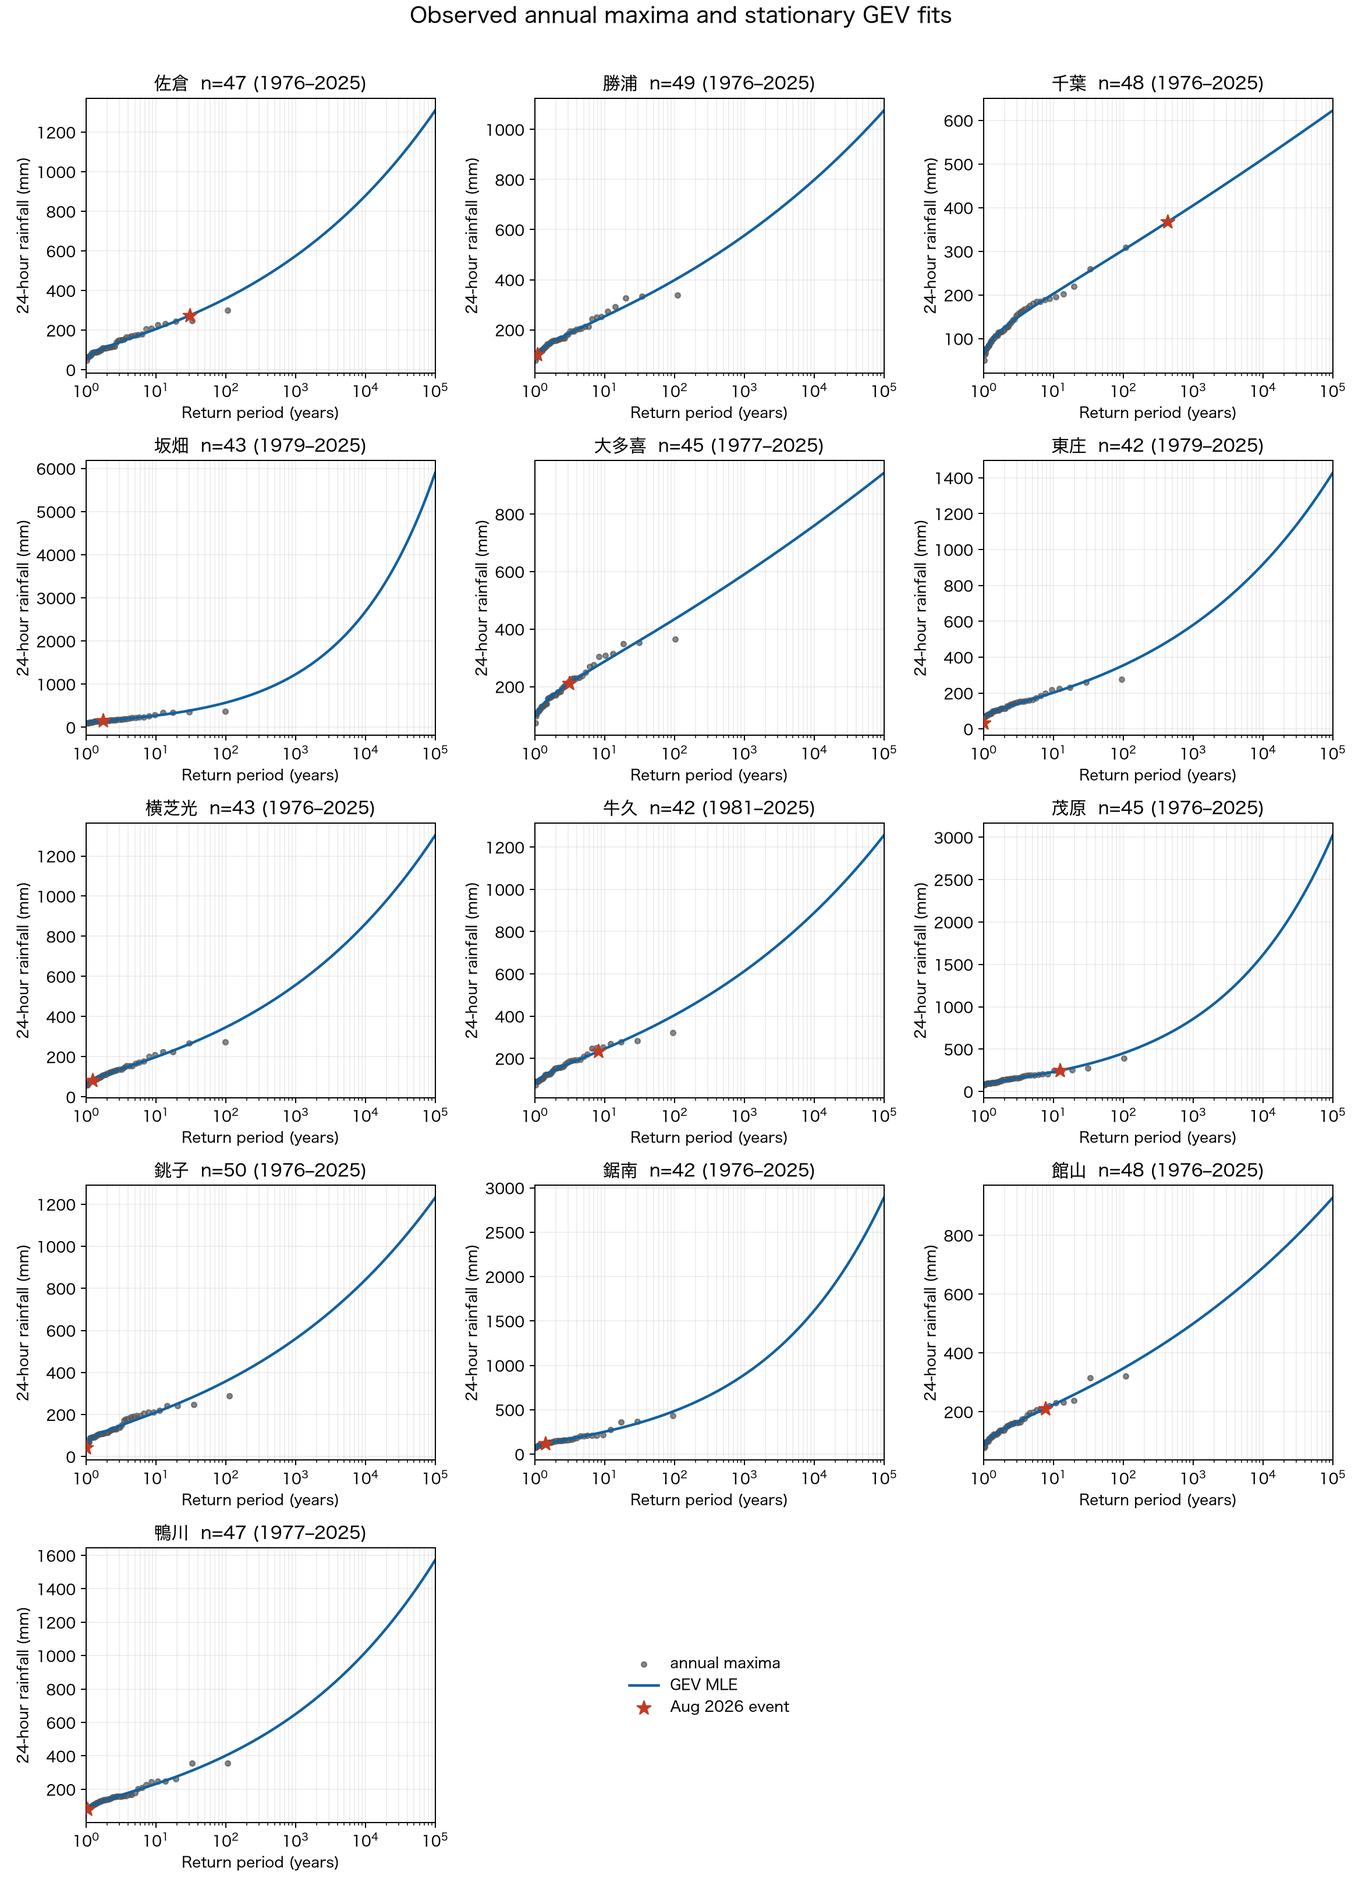
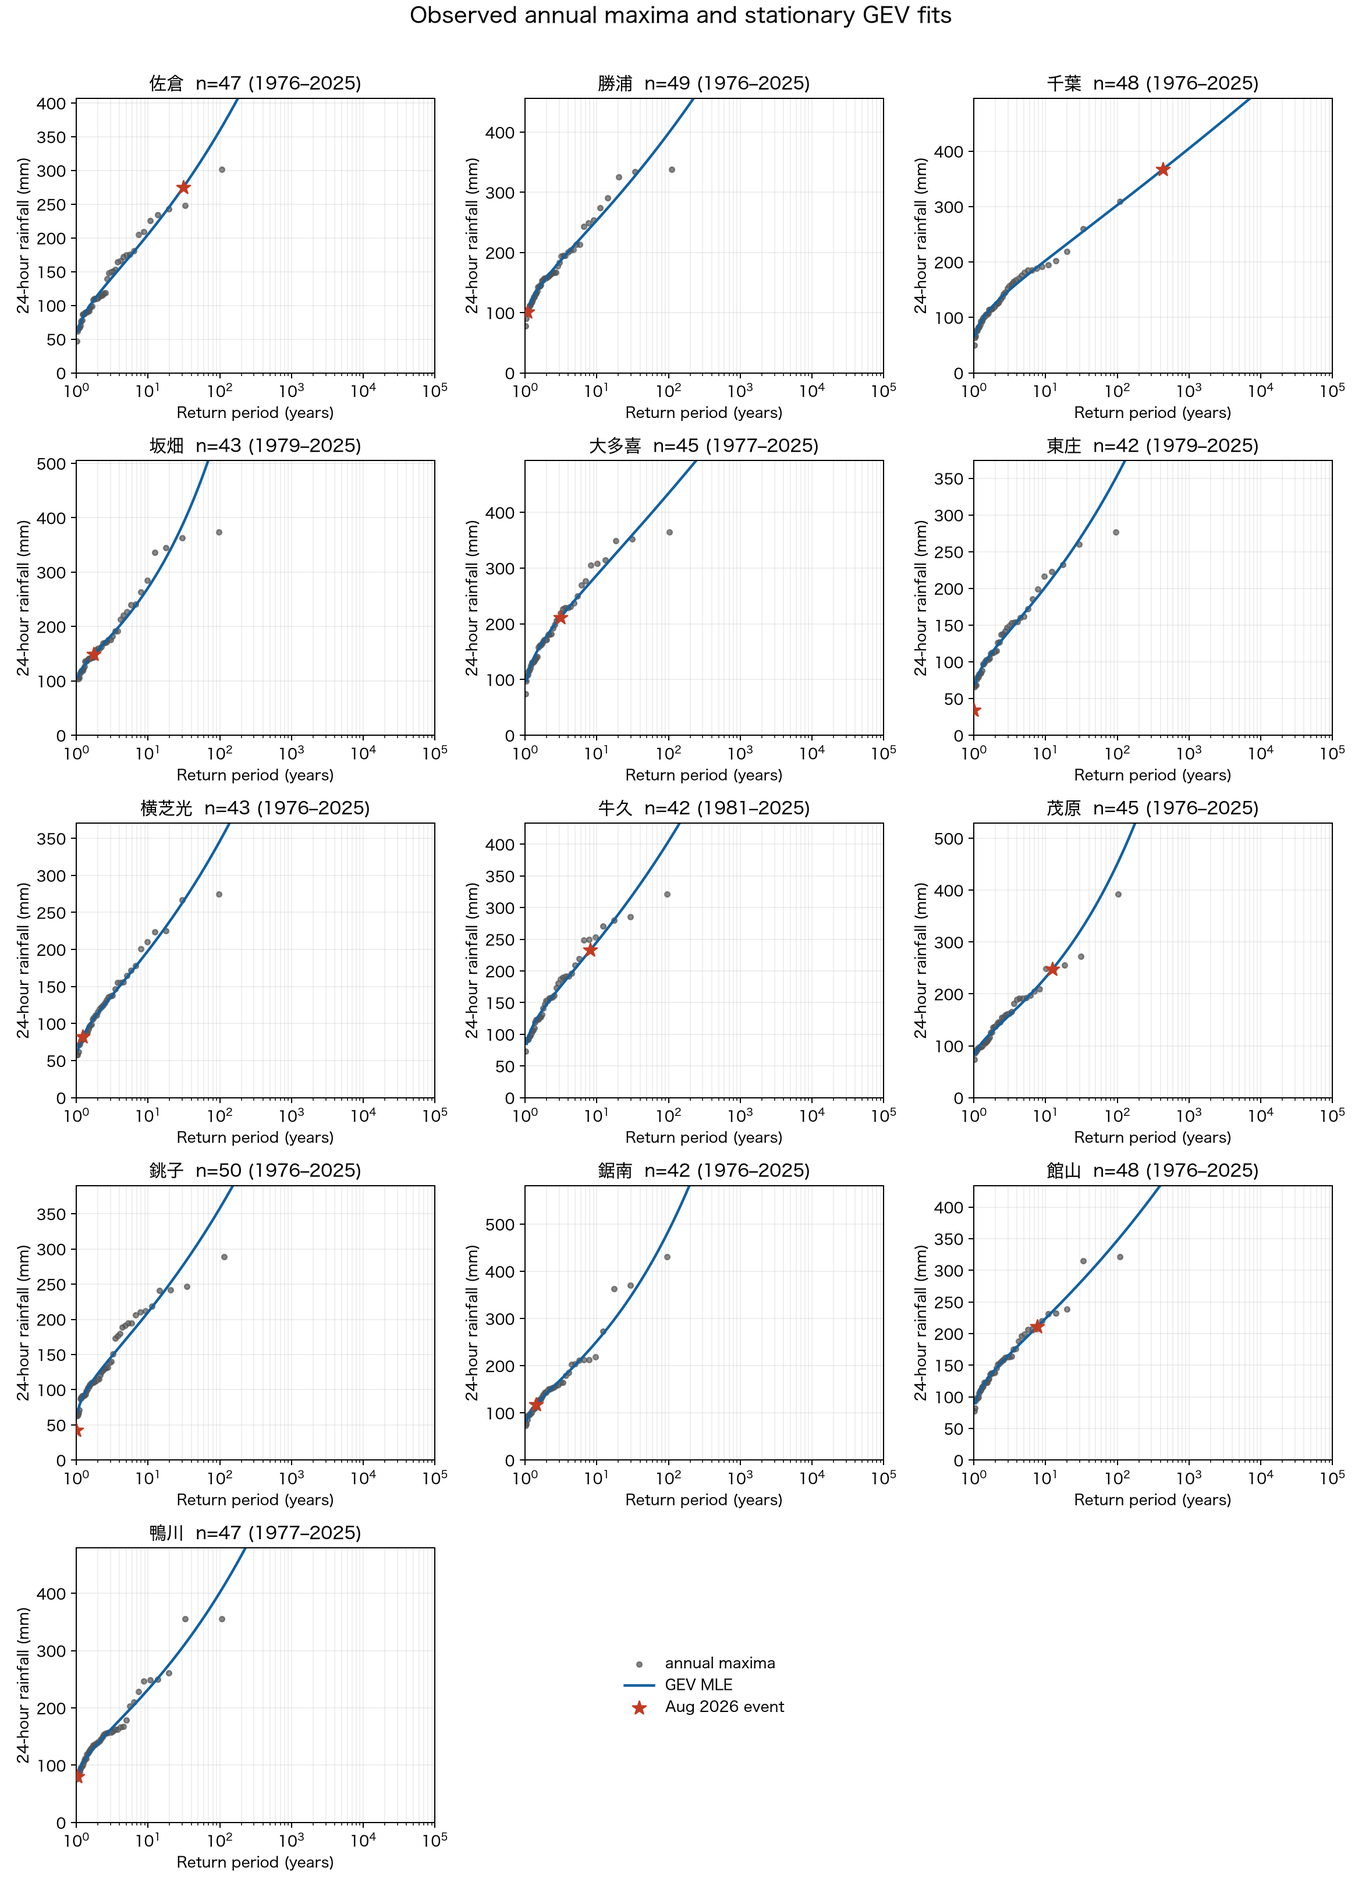
Compare inferred historical climate window

diff --git a/src/chiba_heavy_rain/analysis.py b/src/chiba_heavy_rain/analysis.py
@@ -81,7 +81,12 @@ def _plot_summary(results: pd.DataFrame, output: Path) -> None:
     plt.close(fig)
 
 
-def _plot_return_levels(series: dict[str, pd.DataFrame], results: pd.DataFrame, output: Path) -> None:
+def _plot_return_levels(
+    series: dict[str, pd.DataFrame],
+    results: pd.DataFrame,
+    output: Path,
+    title: str = "Observed annual maxima and stationary GEV fits",
+) -> None:
     eligible = results.loc[results["eligible"]].sort_values("station")
     ncols = 3
     nrows = math.ceil(len(eligible) / ncols)
@@ -107,7 +112,15 @@ def _plot_return_levels(series: dict[str, pd.DataFrame], results: pd.DataFrame, 
         )
         ax.set_xscale("log")
         ax.set_xlim(1, 1e5)
-        ax.set_title(f"{station}  n={int(row['n_years'])} ({int(row['start_year'])}–2025)")
+        # Keep short-record shape estimates from making the observed range unreadable.
+        # The fitted curve may leave the panel at long return periods; that behavior is
+        # itself a warning about extrapolation instability.
+        observed_cap = max(float(np.max(ordered)), float(row["event_24h_mm"]))
+        ax.set_ylim(0, observed_cap * 1.35)
+        ax.set_title(
+            f"{station}  n={int(row['n_years'])} "
+            f"({int(row['start_year'])}–{int(row['end_year'])})"
+        )
         ax.set_xlabel("Return period (years)")
         ax.set_ylabel("24-hour rainfall (mm)")
         ax.grid(which="both", alpha=0.2)
@@ -117,8 +130,88 @@ def _plot_return_levels(series: dict[str, pd.DataFrame], results: pd.DataFrame, 
     handles, labels = axes.ravel()[0].get_legend_handles_labels()
     if len(unused_axes):
         unused_axes[0].legend(handles, labels, loc="center", frameon=False)
-    fig.suptitle("Observed annual maxima and stationary GEV fits", y=0.998, fontsize=15)
+    fig.suptitle(title, y=0.998, fontsize=15)
     fig.tight_layout(rect=(0, 0, 1, 0.99))
+    fig.savefig(output)
+    plt.close(fig)
+
+
+def _historical_period_results(
+    results: pd.DataFrame,
+    annual: pd.DataFrame,
+    start_year: int = 1976,
+    end_year: int = 2014,
+) -> tuple[pd.DataFrame, dict[str, pd.DataFrame]]:
+    """Fit the same stations over the 39 years centered on 1995.
+
+    This deliberately applies no usable/quality filter to numeric annual maxima,
+    as requested. It also does not re-screen stations by record length.
+    """
+    rows: list[dict[str, object]] = []
+    series: dict[str, pd.DataFrame] = {}
+    for station_row in results.loc[results["eligible"]].itertuples():
+        frame = annual.loc[
+            (annual["station"] == station_row.station)
+            & annual["year"].between(start_year, end_year)
+            & annual["max_24h_mm"].notna()
+        ].sort_values("year")
+        values = frame["max_24h_mm"].to_numpy(float)
+        fit = fit_gev(values)
+        event_value = float(station_row.event_24h_mm)
+        rows.append(
+            {
+                "station": station_row.station,
+                "block_no": station_row.block_no,
+                "start_year": int(frame["year"].min()),
+                "end_year": int(frame["year"].max()),
+                "n_years": len(frame),
+                "eligible": True,
+                "window_basis": "inferred_from_article_not_confirmed_by_source_description",
+                "event_24h_mm": event_value,
+                "historical_max_mm": float(values.max()),
+                "shape_xi": fit.shape_xi,
+                "location": fit.location,
+                "scale": fit.scale,
+                "return_period_years": return_period(event_value, fit),
+            }
+        )
+        series[str(station_row.station)] = frame.copy()
+    return pd.DataFrame(rows), series
+
+
+def _plot_period_comparison(
+    current: pd.DataFrame, historical: pd.DataFrame, output: Path
+) -> None:
+    merged = current.loc[current["eligible"], ["station", "return_period_years"]].merge(
+        historical[["station", "return_period_years"]],
+        on="station",
+        suffixes=("_through_2025", "_1976_2014"),
+    )
+    merged = merged.sort_values("return_period_years_1976_2014")
+    y = np.arange(len(merged))
+    fig, ax = plt.subplots(figsize=(9, max(5, 0.48 * len(merged))))
+    ax.scatter(
+        merged["return_period_years_through_2025"],
+        y - 0.12,
+        label="Fit through 2025",
+        color="#777777",
+        s=35,
+    )
+    ax.scatter(
+        merged["return_period_years_1976_2014"],
+        y + 0.12,
+        label="Inferred 1976–2014 fit (exact WNI window undisclosed)",
+        color="#c23b22",
+        marker="D",
+        s=38,
+    )
+    ax.set_yticks(y, merged["station"])
+    ax.set_xscale("log")
+    ax.set_xlabel("Return period of the August 2026 observed value (years; log scale)")
+    ax.set_title("Effect of an article-implied historical window")
+    ax.grid(axis="x", which="both", alpha=0.25)
+    ax.legend(frameon=False)
+    fig.tight_layout()
     fig.savefig(output)
     plt.close(fig)
 
@@ -186,13 +279,23 @@ def run(raw_dir: Path, results_dir: Path, refresh: bool, bootstrap_samples: int)
 
     results = pd.DataFrame(station_results)
     results.to_csv(results_dir / "station_return_periods.csv", index=False)
-    pd.concat(all_annual, ignore_index=True).to_csv(
-        results_dir / "annual_max_24h.csv", index=False
-    )
+    annual_frame = pd.concat(all_annual, ignore_index=True)
+    annual_frame.to_csv(results_dir / "annual_max_24h.csv", index=False)
+    period_results, period_series = _historical_period_results(results, annual_frame)
+    period_results.to_csv(results_dir / "historical_1976_2014_return_periods.csv", index=False)
     _configure_plotting()
     _plot_summary(results, results_dir / "return_period_summary.png")
     _plot_return_levels(historical_series, results, results_dir / "return_level_diagnostics.png")
-    _write_report(results, results_dir / "report.md", bootstrap_samples)
+    _plot_return_levels(
+        period_series,
+        period_results,
+        results_dir / "historical_1976_2014_return_levels.png",
+        title="GEV fits for inferred 1976–2014 window (not specified by source metadata)",
+    )
+    _plot_period_comparison(
+        results, period_results, results_dir / "historical_period_comparison.png"
+    )
+    _write_report(results, results_dir / "report.md", bootstrap_samples, period_results)
     return results
 
 
@@ -207,16 +310,32 @@ def render_existing(results_dir: Path, bootstrap_samples: int) -> pd.DataFrame:
             & annual["year"].between(int(row.start_year), 2025)
             & annual["usable"]
         ].copy()
+    period_results, period_series = _historical_period_results(results, annual)
+    period_results.to_csv(results_dir / "historical_1976_2014_return_periods.csv", index=False)
     _configure_plotting()
     _plot_summary(results, results_dir / "return_period_summary.png")
     _plot_return_levels(
         historical_series, results, results_dir / "return_level_diagnostics.png"
     )
-    _write_report(results, results_dir / "report.md", bootstrap_samples)
+    _plot_return_levels(
+        period_series,
+        period_results,
+        results_dir / "historical_1976_2014_return_levels.png",
+        title="GEV fits for inferred 1976–2014 window (not specified by source metadata)",
+    )
+    _plot_period_comparison(
+        results, period_results, results_dir / "historical_period_comparison.png"
+    )
+    _write_report(results, results_dir / "report.md", bootstrap_samples, period_results)
     return results
 
 
-def _write_report(results: pd.DataFrame, output: Path, bootstrap_samples: int) -> None:
+def _write_report(
+    results: pd.DataFrame,
+    output: Path,
+    bootstrap_samples: int,
+    period_results: pd.DataFrame | None = None,
+) -> None:
     eligible = results.loc[results["eligible"]].copy()
     excluded = results.loc[~results["eligible"]].copy()
     eligible = eligible.sort_values("return_period_years", ascending=False)
@@ -239,6 +358,26 @@ def _write_report(results: pd.DataFrame, output: Path, bootstrap_samples: int) -
     ) or "なし"
     extreme_count = int((eligible["return_period_years"] > 10000).sum())
     max_row = eligible.iloc[0]
+    period_rows: list[str] = []
+    period_summary = ""
+    if period_results is not None:
+        ordered_period = period_results.sort_values("return_period_years", ascending=False)
+        for _, row in ordered_period.iterrows():
+            period_rows.append(
+                "| {station} | {years} | {n} | {rain:.1f} | {hist:.1f} | {period} |".format(
+                    station=row["station"],
+                    years=f"{int(row['start_year'])}–{int(row['end_year'])}",
+                    n=int(row["n_years"]),
+                    rain=float(row["event_24h_mm"]),
+                    hist=float(row["historical_max_mm"]),
+                    period=_format_period(float(row["return_period_years"])),
+                )
+            )
+        period_max = ordered_period.iloc[0]
+        period_summary = (
+            f"この期間だけで推定した最大の点推定は **{period_max['station']}の"
+            f"{_format_period(float(period_max['return_period_years']))}** だった。"
+        )
     text = f"""# 令和8年8月千葉豪雨：地上観測に基づく24時間雨量の確率年
 
 ## 結論
@@ -260,6 +399,24 @@ def _write_report(results: pd.DataFrame, output: Path, bootstrap_samples: int) -
 ![地点別確率年](return_period_summary.png)
 
 ![GEV診断](return_level_diagnostics.png)
+
+## 記事文言から推定した期間での再計算（1976～2014年）
+
+**注意：1976～2014年は元データdescriptionに明記された期間ではない。** 記事の「1995年を中心とする約39年間」を中央年の前後19年と読み、かつCMIP6 historical runが2014年で終わることから逆算した条件付きの推定である。ウェザーニューズが極値統計に実際に切り出した開始・終了年は、記事にも元データdescriptionにも記載されていない。
+
+元データdescriptionを確認すると、NASA NEX-GDDP-CMIP6はhistoricalが1950～2014年、SSPが2015～2100年である。NIES2020で「39年」と明記されるのは極値統計の標本期間ではなく、CDFDMバイアス補正の基準期間 **1980～2018年** で、その内訳はhistorical runの1980～2014年とSSP585 runの2015～2018年である。この1980～2018年を記事の「1995年中心の過去気候期間」と読み替える根拠はないため、本図には採用していない。
+
+上記の推定期間に固定し、地点は主解析の13地点から再選別せず、数値が掲載されている年最大24時間雨量を品質記号 `]` も含めて使用した。したがって牛久・坂畑は観測掲載開始の関係で37値、その他は最大39値である。{period_summary}
+
+| 地点 | 使用期間 | 年最大値数 | 今回24h (mm) | 期間内最大 (mm) | 確率年 |
+|---|---:|---:|---:|---:|---:|
+{chr(10).join(period_rows)}
+
+![推定1976～2014年GEV診断](historical_1976_2014_return_levels.png)
+
+![期間による確率年の比較](historical_period_comparison.png)
+
+この追加計算のGEV入力はブロック最大法としての年最大値である。「フィルタなし」は、年最大値の品質記号による除外と地点の再選別を行わない、という意味で実装した。日々の24時間雨量をすべてGEVへ投入するPOT解析ではない。
 
 ## 方法と再現性
 
@@ -285,6 +442,8 @@ uv run chiba-rain --bootstrap {bootstrap_samples}
 ## 参照資料
 
 - [ウェザーニュース：千葉県で500mm超の記録的大雨](https://weathernews.jp/news/202608/140251/)
+- [NASA NCCS：NEX-GDDP-CMIP6 dataset description](https://www.nccs.nasa.gov/data-collections/nex-gddp-cmip6/)
+- [国立環境研究所：NIES2020 dataset description](https://www.nies.go.jp/doi/10.17595/20210501.001.html)
 - [気象庁：過去の気象データ検索（千葉県の地点選択）](https://www.data.jma.go.jp/stats/etrn/select/prefecture.php?prec_no=45)
 - [銚子地方気象台：千葉県における気温・降水量の経年変化](https://www.data.jma.go.jp/choshi/shosai/bousai/history_rain.html)
 - [気象庁：気象観測データの品質と均質性](https://www.jma.go.jp/jma/kishou/know/stats/dounyu_3.html)

diff --git a/tests/test_extremes.py b/tests/test_extremes.py
@@ -1,6 +1,8 @@
 import numpy as np
+import pandas as pd
 from scipy.stats import genextreme
 
+from chiba_heavy_rain.analysis import _historical_period_results
 from chiba_heavy_rain.extremes import GEVFit, fit_gev, return_level, return_period
 
 
@@ -26,3 +28,21 @@ def test_fit_gev_returns_valid_scale() -> None:
     assert fit.scale > 0
     assert 80 < fit.location < 160
 
+
+def test_centered_1995_period_is_1976_through_2014_without_quality_filter() -> None:
+    current = pd.DataFrame(
+        [{"station": "test", "block_no": "0000", "eligible": True, "event_24h_mm": 180.0}]
+    )
+    annual = pd.DataFrame(
+        {
+            "station": ["test"] * 41,
+            "year": range(1975, 2016),
+            "max_24h_mm": np.linspace(80, 160, 41),
+            "usable": [False] * 41,
+        }
+    )
+    period, series = _historical_period_results(current, annual)
+    assert period.loc[0, "start_year"] == 1976
+    assert period.loc[0, "end_year"] == 2014
+    assert period.loc[0, "n_years"] == 39
+    assert len(series["test"]) == 39

diff --git a/results/report.md b/results/report.md
@@ -32,6 +32,36 @@
 
 ![GEV診断](return_level_diagnostics.png)
 
+## 記事文言から推定した期間での再計算（1976～2014年）
+
+**注意：1976～2014年は元データdescriptionに明記された期間ではない。** 記事の「1995年を中心とする約39年間」を中央年の前後19年と読み、かつCMIP6 historical runが2014年で終わることから逆算した条件付きの推定である。ウェザーニューズが極値統計に実際に切り出した開始・終了年は、記事にも元データdescriptionにも記載されていない。
+
+元データdescriptionを確認すると、NASA NEX-GDDP-CMIP6はhistoricalが1950～2014年、SSPが2015～2100年である。NIES2020で「39年」と明記されるのは極値統計の標本期間ではなく、CDFDMバイアス補正の基準期間 **1980～2018年** で、その内訳はhistorical runの1980～2014年とSSP585 runの2015～2018年である。この1980～2018年を記事の「1995年中心の過去気候期間」と読み替える根拠はないため、本図には採用していない。
+
+上記の推定期間に固定し、地点は主解析の13地点から再選別せず、数値が掲載されている年最大24時間雨量を品質記号 `]` も含めて使用した。したがって牛久・坂畑は観測掲載開始の関係で37値、その他は最大39値である。この期間だけで推定した最大の点推定は **千葉の308年** だった。
+
+| 地点 | 使用期間 | 年最大値数 | 今回24h (mm) | 期間内最大 (mm) | 確率年 |
+|---|---:|---:|---:|---:|---:|
+| 千葉 | 1976–2014 | 39 | 367.0 | 309.0 | 308年 |
+| 茂原 | 1976–2014 | 39 | 247.5 | 272.0 | 18.7年 |
+| 牛久 | 1978–2014 | 37 | 233.0 | 321.0 | 9.89年 |
+| 館山 | 1976–2014 | 39 | 211.0 | 321.5 | 7.40年 |
+| 佐倉 | 1976–2014 | 39 | 274.5 | 301.5 | 3.59年 |
+| 鋸南 | 1976–2014 | 39 | 117.5 | 431.0 | 3.39年 |
+| 大多喜 | 1976–2014 | 39 | 211.5 | 365.0 | 3.38年 |
+| 坂畑 | 1978–2014 | 37 | 149.0 | 374.0 | 1.67年 |
+| 横芝光 | 1976–2014 | 39 | 82.5 | 267.0 | 1.21年 |
+| 勝浦 | 1976–2014 | 39 | 101.5 | 338.0 | 1.07年 |
+| 鴨川 | 1976–2014 | 39 | 80.5 | 355.0 | 1.05年 |
+| 銚子 | 1976–2014 | 39 | 42.5 | 289.0 | 1.00年 |
+| 東庄 | 1976–2014 | 39 | 34.0 | 277.0 | 1.00年 |
+
+![推定1976～2014年GEV診断](historical_1976_2014_return_levels.png)
+
+![期間による確率年の比較](historical_period_comparison.png)
+
+この追加計算のGEV入力はブロック最大法としての年最大値である。「フィルタなし」は、年最大値の品質記号による除外と地点の再選別を行わない、という意味で実装した。日々の24時間雨量をすべてGEVへ投入するPOT解析ではない。
+
 ## 方法と再現性
 
 - 出典は気象庁「過去の気象データ検索」の年ごとの値（詳細・N時間降水量）と2026年8月の日ごとの値。取得URLとSHA-256は `data/raw/manifest.json` に保存した。
@@ -56,6 +86,8 @@ uv run chiba-rain --bootstrap 2000
 ## 参照資料
 
 - [ウェザーニュース：千葉県で500mm超の記録的大雨](https://weathernews.jp/news/202608/140251/)
+- [NASA NCCS：NEX-GDDP-CMIP6 dataset description](https://www.nccs.nasa.gov/data-collections/nex-gddp-cmip6/)
+- [国立環境研究所：NIES2020 dataset description](https://www.nies.go.jp/doi/10.17595/20210501.001.html)
 - [気象庁：過去の気象データ検索（千葉県の地点選択）](https://www.data.jma.go.jp/stats/etrn/select/prefecture.php?prec_no=45)
 - [銚子地方気象台：千葉県における気温・降水量の経年変化](https://www.data.jma.go.jp/choshi/shosai/bousai/history_rain.html)
 - [気象庁：気象観測データの品質と均質性](https://www.jma.go.jp/jma/kishou/know/stats/dounyu_3.html)

diff --git a/README.md b/README.md
@@ -23,10 +23,15 @@ of every snapshot are recorded in `data/raw/manifest.json`.
 Outputs are written to `results/`, including the Japanese report
 `results/report.md`, tidy CSV files, and diagnostic plots.
 
+The workflow also produces a conditional 1976–2014 fit for the same 13 stations.
+That window is inferred from the article's “39 years centered on 1995” wording and
+the 2014 endpoint of the CMIP6 historical experiment; it is not stated in the
+NEX-GDDP-CMIP6 or NIES2020 source metadata. NIES2020's documented 39-year period
+is instead the 1980–2018 bias-correction reference period.
+
 ## Interpretation
 
 Weathernews reported 574.2 mm from gridded analyzed precipitation over Chiba Midori
 Ward to eastern Ichihara. This project analyzes point rain-gauge observations, so it
 does not assign a return period to that gridded 574.2 mm value. It provides an
 observation-based, reproducible comparison for gauges that sampled the same event.
-
